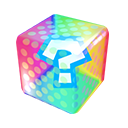
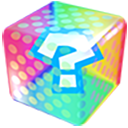
アイテムを取得(消滅)

diff --git a/Solution/App/Player.cpp b/Solution/App/Player.cpp
@@ -98,8 +98,9 @@ void Player::actOnHammer( ) {
 	if ( _action_count > HAMMER_COUNT ) {
 		_pattern = 8;
 		_hammer_count++;
-		_future->isGetItem( _pos );
-		_future->isErase( _pos, HEIGHT / 2 );
+		if ( !_future->isGetItem( Vector( _pos.x, _pos.y - HEIGHT / 2 ) ) ) {
+			_future->erase( Vector( _pos.x, _pos.y - HEIGHT / 2 ), HEIGHT / 2 );
+		}
 		if ( _hammer_count >= MAX_HIT ) {
 			_future->change( );
 			_hammer_count = 0;

diff --git a/Solution/App/Item.h b/Solution/App/Item.h
@@ -7,7 +7,7 @@ public:
 	virtual ~Item( );
 public:
 	void update( Matrix mat, int oliginal_num );
-	Vector getPos( );
+	Vector getPos( Matrix mat, int oliginal_num );
 	Vector rotetion( Matrix mat, int oliginal_num );
 private:
 	Vector _pos;

diff --git a/Solution/App/Future.h b/Solution/App/Future.h
@@ -16,7 +16,7 @@ public:
 	GRAPH getGraph( ) const;
 	void update( );
 	void change( );
-	bool isErase( Vector pos, double radius );
+	void erase( Vector pos, double radius );
 	bool isGetItem( Vector pos );
 private:
 	void load( );
